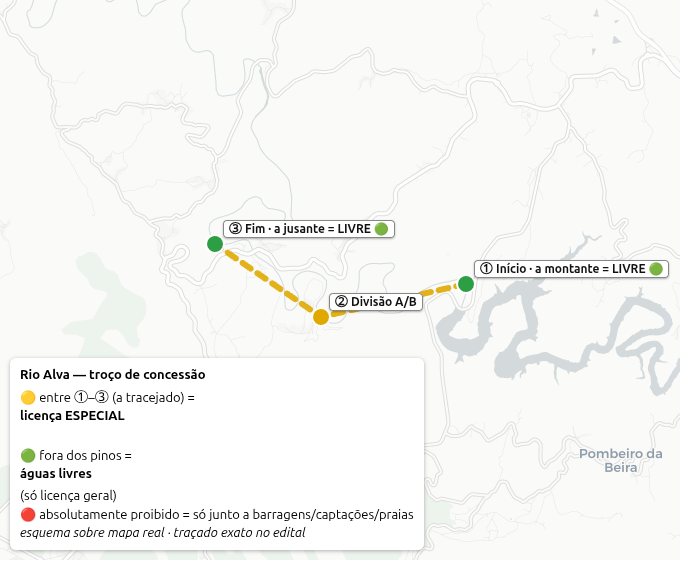
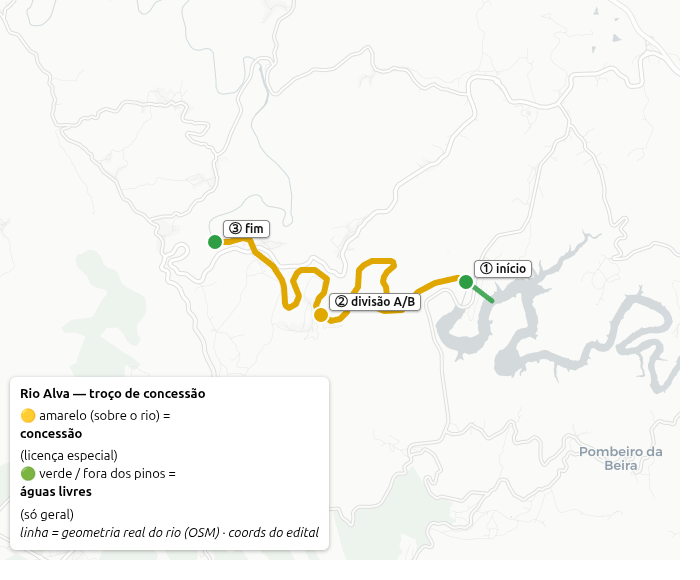
Licenças: linha segue o RIO REAL (OSM) — Alva e Ceira
Substitui a linha reta/tracejada pela geometria real do rio:
- Overpass (OSM) → costura das ways → recorte ao troço (A→F) →
  downsample → desenho da polilinha sobre as curvas do rio.
- Alva: troço exato (início/divisão A-B/fim do edital), a amarelo
  por cima dos meandros + stub verde a montante (livre).
- Ceira: ~Carrimá (aproximado) → ponte da Cabreira (exato), a seguir
  o rio (passa Colmeal).
- Isna fica o círculo (só 1 ponto fiável, não dá para traçar segmento).
- Legendas atualizadas (linha = rio real, © OSM/CARTO).

Verificado a 390px: 3 mapas escalam, sem overflow.

Claude-Session: https://claude.ai/code/session_01GvXxsejJ5n1HGoVgLdtfDk

diff --git a/LICENCAS.md b/LICENCAS.md
@@ -65,7 +65,7 @@ Cada concessão é só um **pedaço marcado** do rio — no terreno há **placas
 
 <img src="img/alva-concessao.png" alt="Mapa do troço de concessão do Rio Alva — semáforo" width="700" height="580">
 
-> 🟡 troço (licença **especial**) entre os pinos ①–③ · 🟢 fora dos pinos = **livre** (só geral) · 🔴 proibido só junto a barragens/captações/praias. *Esquema sobre mapa real (© OpenStreetMap · CARTO); traçado exato no edital.*
+> 🟡 **linha amarela = o rio real no troço da concessão** (licença **especial**) · 🟢 fora dos pinos = **livre** (só geral) · 🔴 proibido só junto a barragens/captações/praias. *Geometria do rio © OpenStreetMap · CARTO; limites no edital.*
 
 **🔵 Rio Ceira — Colmeal–Cabreira** (~13 km):
 - Da **confluência da Ribeira de Carrimá** (montante) até à **ponte nova da Cabreira** (jusante).
@@ -73,7 +73,7 @@ Cada concessão é só um **pedaço marcado** do rio — no terreno há **placas
 
 <img src="img/ceira-concessao.png" alt="Mapa do troço de concessão do Rio Ceira" width="700" height="580">
 
-> 🟡 entre os pinos = **especial** · 🟢 fora = **livre** · ① montante **aproximado** (~Carrimá) · ② Cabreira exato. *© OpenStreetMap · CARTO.*
+> 🟡 **linha amarela = o rio real** no troço (**especial**) · 🟢 fora = **livre** · ① montante **aproximado** (~Carrimá) · ② Cabreira exato. *Geometria © OpenStreetMap · CARTO.*
 
 **🟡 Ribeira da Isna — Malhadal** (~2,9 km):
 - De **100 m a montante da ponte pedonal** (a jusante de Cabrieira) até ao **açude do Corregacho**.